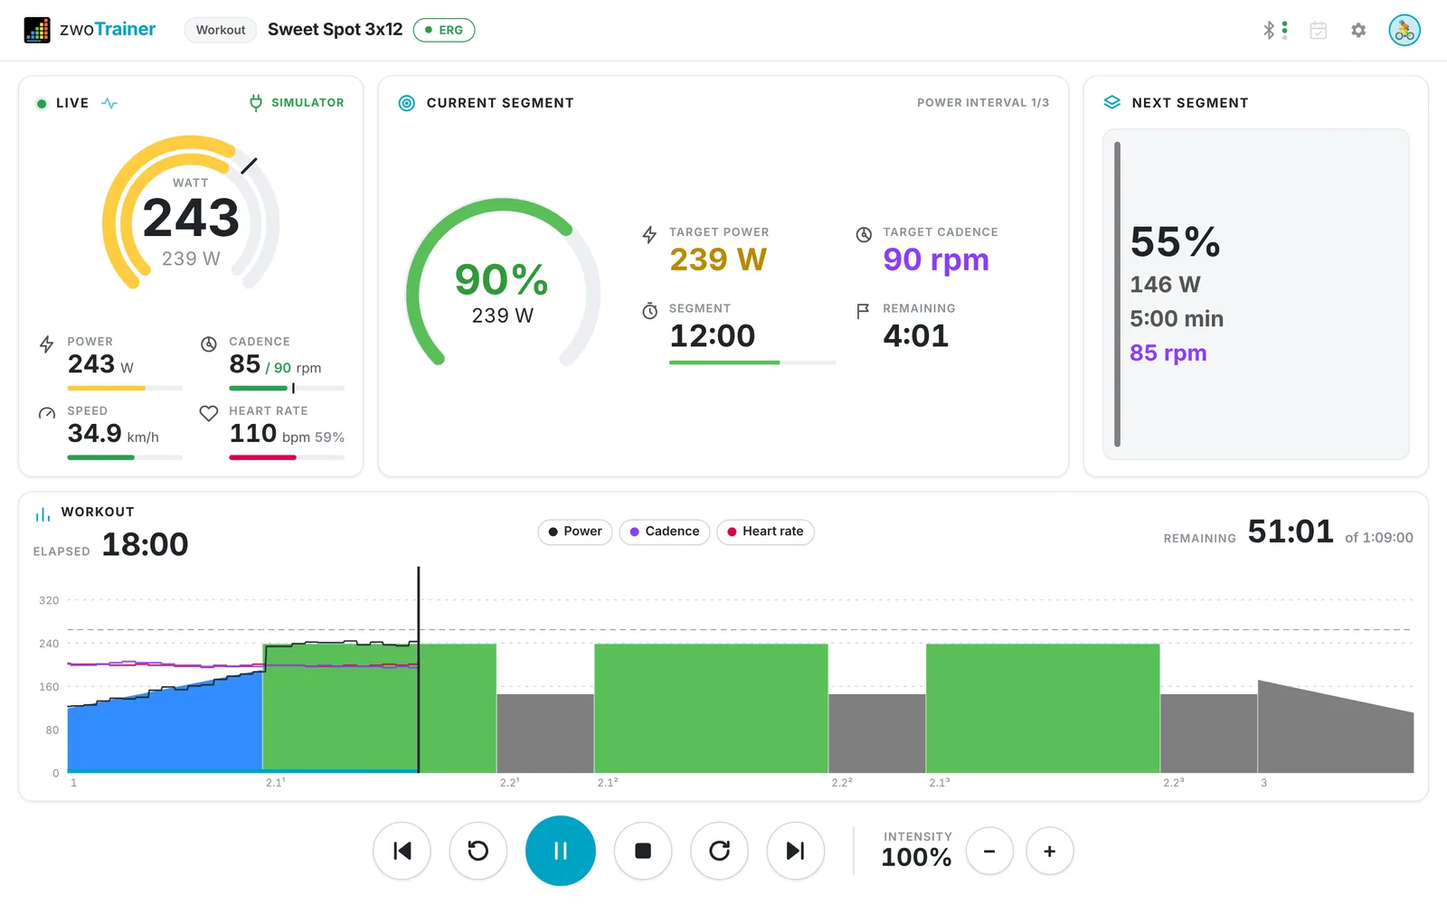
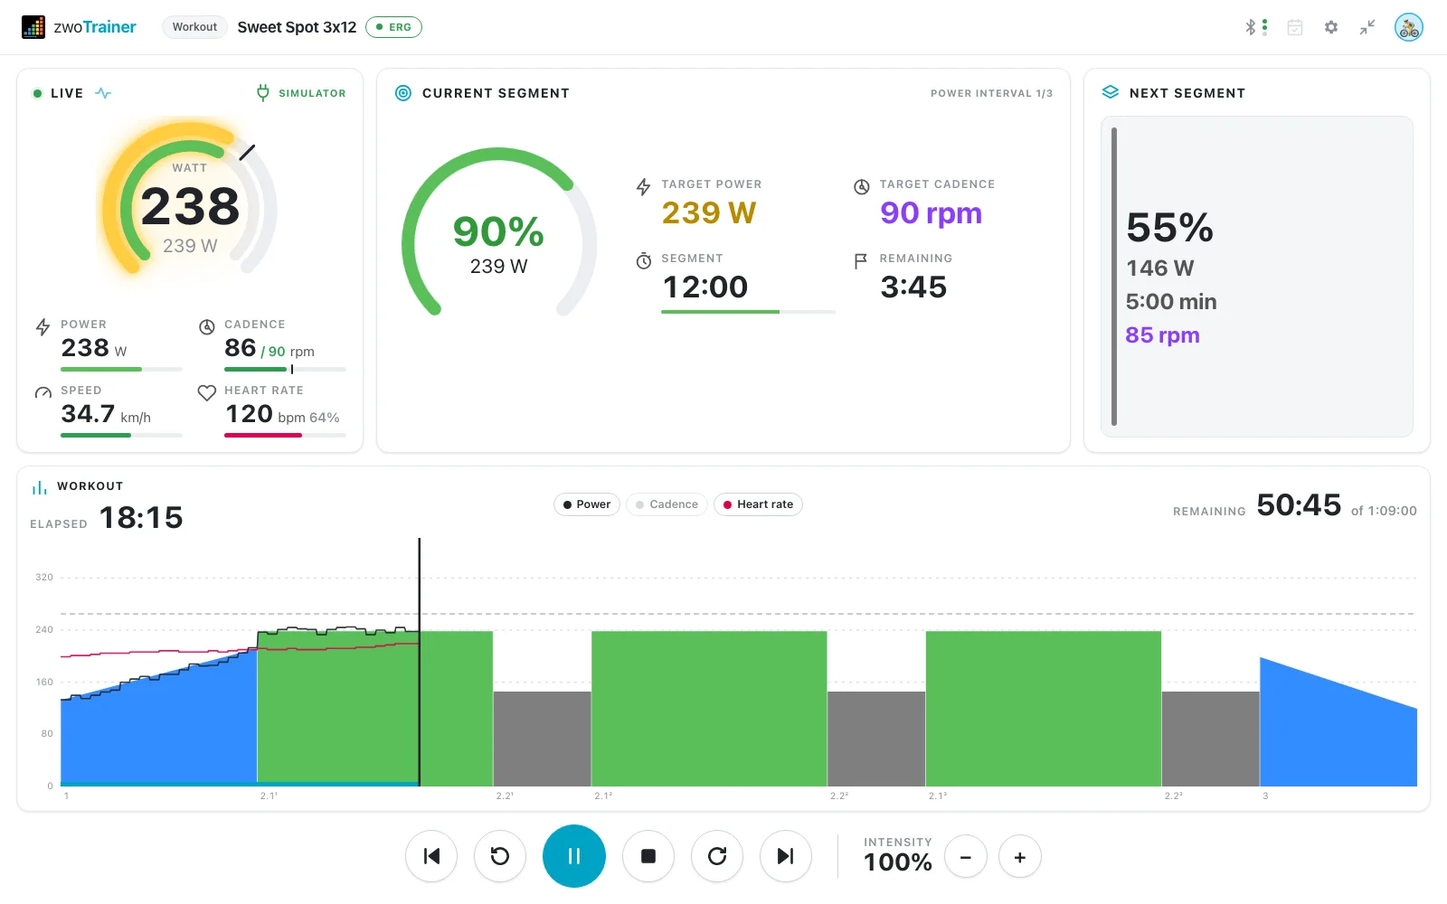
Update the website with compact view, OpenBikeControl, sounds and device battery
Add a Compact view section and a Devices section to the features page, new
compact view screenshots and refreshed ride and devices screenshots in dark
and light, OpenBikeControl and sound texts on the home and features pages,
and controller and video entries to the download FAQ.

diff --git a/site/features.html b/site/features.html
@@ -1,5 +1,5 @@
 <!doctype html>
-<html lang="en"><head><meta charset="utf-8"><meta name="viewport" content="width=device-width, initial-scale=1, viewport-fit=cover"><meta name="claude:viewport-fit-sides" content="cover"><title>zwoTrainer Features</title><meta name="description" content="Ride screen, plans, workout library, FTP tests, virtual shifting, riders and uploads in zwoTrainer."><link rel="icon" href="icon.svg" type="image/svg+xml"><link rel="preconnect" href="https://fonts.googleapis.com"><link rel="preconnect" href="https://fonts.gstatic.com" crossorigin><link href="https://fonts.googleapis.com/css2?family=Archivo:wdth,wght@62..125,300..900&family=JetBrains+Mono:wght@400;500;600&display=swap" rel="stylesheet"><link rel="stylesheet" href="site.css"><script src="site.js"></script></head>
+<html lang="en"><head><meta charset="utf-8"><meta name="viewport" content="width=device-width, initial-scale=1, viewport-fit=cover"><meta name="claude:viewport-fit-sides" content="cover"><title>zwoTrainer Features</title><meta name="description" content="Ride screen, compact view, plans, workout library, FTP tests, virtual shifting, devices, riders and uploads in zwoTrainer."><link rel="icon" href="icon.svg" type="image/svg+xml"><link rel="preconnect" href="https://fonts.googleapis.com"><link rel="preconnect" href="https://fonts.gstatic.com" crossorigin><link href="https://fonts.googleapis.com/css2?family=Archivo:wdth,wght@62..125,300..900&family=JetBrains+Mono:wght@400;500;600&display=swap" rel="stylesheet"><link rel="stylesheet" href="site.css"><script src="site.js"></script></head>
 <body>
 <header class="nav"><div class="wrap">
   <a class="brand" href="./"><img src="icon.svg" alt=""><span>zwo<b>Trainer</b></span></a>
@@ -13,13 +13,18 @@
 <section class="page-hero"><div class="wrap">
   <span class="eyebrow"><span class="zones" aria-hidden="true"><i></i><i></i><i></i><i></i><i></i></span> Features</span>
   <h1 class="display">What zwoTrainer&nbsp;does.</h1>
-  <p class="lead">The ride screen, plans, workout library, FTP tests, virtual shifting, riders and uploads in detail.</p>
-  <nav class="toc"><a href="#ride">Ride screen</a><a href="#plans">Plans</a><a href="#library">Workouts</a><a href="#ftp">FTP tests</a><a href="#shifting">Virtual shifting</a><a href="#riders">Riders &amp; sync</a><a href="#uploads">Uploads</a></nav>
+  <p class="lead">The ride screen, compact view, plans, workout library, FTP tests, virtual shifting, devices, riders and uploads in detail.</p>
+  <nav class="toc"><a href="#ride">Ride screen</a><a href="#compact">Compact view</a><a href="#plans">Plans</a><a href="#library">Workouts</a><a href="#ftp">FTP tests</a><a href="#shifting">Virtual shifting</a><a href="#devices">Devices</a><a href="#riders">Riders &amp; sync</a><a href="#uploads">Uploads</a></nav>
 </div></section>
 
 <section class="deep" id="ride"><div class="wrap grid">
   <div class="side rv"><span class="eyebrow">Ride screen</span><h2 class="display">ERG, second by second.</h2><p>ERG updates the target every second, ramps included. In free-ride and all-out segments ERG turns off and you ride on your gears.</p><table class="keys"><tr><td><kbd>Space</kbd></td><td class="muted">start / pause</td></tr><tr><td><kbd>←</kbd> <kbd>→</kbd></td><td class="muted">previous / next segment</td></tr><tr><td><kbd>↑</kbd> <kbd>↓</kbd></td><td class="muted">intensity ±1 % (with Shift ±10 %)</td></tr><tr><td><kbd>+</kbd> <kbd>−</kbd></td><td class="muted">shift virtual gear</td></tr><tr><td><kbd>Esc</kbd></td><td class="muted">end the workout</td></tr></table></div>
-  <div class="rv"><div class="frame"><div class="bar"><i></i><i></i><i></i></div><img class="sd" src="img/ride-dark.webp" alt="Ride screen with live data and workout chart" width="1600" height="1000" loading="lazy"><img class="sl" src="img/ride-light.webp" alt="Ride screen with live data and workout chart" width="1600" height="1000" loading="lazy"></div><div class="cards"><div class="card"><h4>Start</h4><p>The workout starts after about two seconds of pedalling, or when you press Space.</p></div><div class="card"><h4>Cadence targets</h4><p>If a segment has a cadence target, it appears next to your cadence. The bar is green on target, amber 5–10 rpm off and red beyond that.</p></div><div class="card"><h4>Auto-pause</h4><p>After three seconds without power or cadence the workout pauses, and it resumes when you pedal again. You can turn this off.</p></div><div class="card"><h4>Countdown beeps</h4><p>Three beeps in the last three seconds before each change of target.</p></div></div></div>
+  <div class="rv"><div class="frame"><div class="bar"><i></i><i></i><i></i></div><img class="sd" src="img/ride-dark.webp" alt="Ride screen with live data and workout chart" width="1600" height="1000" loading="lazy"><img class="sl" src="img/ride-light.webp" alt="Ride screen with live data and workout chart" width="1600" height="1000" loading="lazy"></div><div class="cards"><div class="card"><h4>Start</h4><p>The workout starts after about two seconds of pedalling, or when you press Space.</p></div><div class="card"><h4>Cadence targets</h4><p>If a segment has a cadence target, it appears next to your cadence. The bar is green on target, amber 5–10 rpm off and red beyond that.</p></div><div class="card"><h4>Auto-pause</h4><p>After three seconds without power or cadence the workout pauses, and it resumes when you pedal again. You can turn this off.</p></div><div class="card"><h4>Sounds</h4><p>A countdown in the last three seconds before each change of target: three rising notes when the power goes up, three falling notes when it goes down. A short chime plays when you ride a workout to the end.</p></div></div></div>
+</div></section>
+
+<section class="deep" id="compact"><div class="wrap grid">
+  <div class="side rv"><span class="eyebrow">Compact view</span><h2 class="display">Train next to a video.</h2><p>Shrink the ride screen into a small window and keep it beside or above YouTube or any other video player. The same Ride keeps running, with the same ERG control, recording and sounds.</p></div>
+  <div class="rv"><div class="frame"><div class="bar"><i></i><i></i><i></i></div><img class="sd" src="img/compact-dark.webp" alt="Compact view: Live gauge, Current segment ring and Next segment in a 960 by 200 window" width="1920" height="400" loading="lazy"><img class="sl" src="img/compact-light.webp" alt="Compact view: Live gauge, Current segment ring and Next segment in a 960 by 200 window" width="1920" height="400" loading="lazy"></div><div class="cards"><div class="card"><h4>Three panels</h4><p>Live shows the power gauge with target, heart rate and cadence. Current shows the segment ring with time left, target and progress. Next shows the target, its length and when it starts.</p></div><div class="card"><h4>Any size</h4><p>It opens as a 960 × 200 bar and shrinks down to 320 × 200, or into a narrow vertical panel. The smaller the window, the less text it shows. The gauges and the ring always stay.</p></div><div class="card"><h4>One click</h4><p>Use the compact view icon in the top bar during a ride. The expand button brings back the previous window size and position.</p></div><div class="card"><h4>Still in control</h4><p>Play and pause, stop and virtual gears stay within reach, and keyboard and controller shortcuts keep working.</p></div></div></div>
 </div></section>
 
 <section class="deep" id="plans"><div class="wrap grid">
@@ -39,7 +44,12 @@
 
 <section class="deep" id="shifting"><div class="wrap grid">
   <div class="side rv"><span class="eyebrow">Virtual shifting</span><h2 class="display">Gears in free-ride segments.</h2><p>zwoTrainer simulates 24 gears. Cadence and gear ratio give a speed, and road physics with your weight turns that speed into the watts the trainer holds. Virtual gears are used in free-ride segments and all-out efforts.</p></div>
-  <div class="rv"><div class="frame"><div class="bar"><i></i><i></i><i></i></div><img class="sd" src="img/test-20min-vs-dark.webp" alt="All-out effort on virtual gears: gear 20 of 24 with ratio and resulting watts, shift buttons on screen" width="1600" height="1000" loading="lazy"><img class="sl" src="img/test-20min-vs-light.webp" alt="All-out effort on virtual gears: gear 20 of 24 with ratio and resulting watts, shift buttons on screen" width="1600" height="1000" loading="lazy"></div><div class="cards"><div class="card"><h4>Zwift controllers</h4><p>Zwift Ride, Click and Play shift gears and change intensity. Ride and Play can also skip segments and start or pause the workout.</p></div><div class="card"><h4>Without a controller</h4><p>Shift with <kbd>+</kbd> / <kbd>−</kbd> or the buttons on screen.</p></div><div class="card"><h4>Choice per ride</h4><p>If a workout has free-ride segments, the Ready screen lets you choose real gears or virtual gears (easy, medium or hard). The default is set in Settings.</p></div><div class="card"><h4>Button test</h4><p>The shifter dialog shows every button press and the action it triggers.</p></div></div></div>
+  <div class="rv"><div class="frame"><div class="bar"><i></i><i></i><i></i></div><img class="sd" src="img/test-20min-vs-dark.webp" alt="All-out effort on virtual gears: gear 20 of 24 with ratio and resulting watts, shift buttons on screen" width="1600" height="1000" loading="lazy"><img class="sl" src="img/test-20min-vs-light.webp" alt="All-out effort on virtual gears: gear 20 of 24 with ratio and resulting watts, shift buttons on screen" width="1600" height="1000" loading="lazy"></div><div class="cards"><div class="card"><h4>Zwift controllers</h4><p>Zwift Ride, Click and Play shift gears and change intensity. Ride and Play can also skip segments and start or pause the workout.</p></div><div class="card"><h4>OpenBikeControl</h4><p>Controllers that use the open OpenBikeControl protocol work too, and so do apps like BikeControl that bridge other controllers. Shift, change intensity, skip segments and start or pause from the buttons.</p></div><div class="card"><h4>Without a controller</h4><p>Shift with <kbd>+</kbd> / <kbd>−</kbd> or the buttons on screen.</p></div><div class="card"><h4>Choice per ride</h4><p>If a workout has free-ride segments, the Ready screen lets you choose real gears or virtual gears (easy, medium or hard). The default is set in Settings.</p></div><div class="card"><h4>Button test</h4><p>The shifter dialog shows every button press and the action it triggers.</p></div></div></div>
+</div></section>
+
+<section class="deep" id="devices"><div class="wrap grid">
+  <div class="side rv"><span class="eyebrow">Devices</span><h2 class="display">Pair once.</h2><p>Trainer, heart-rate strap and controller are remembered for each rider. Open the Bluetooth menu in the top bar to see what is connected and to connect or change a device.</p></div>
+  <div class="rv"><div style="max-width:420px"><div class="dialog-shot"><img class="sd" src="img/devices-card-dark.webp" alt="Devices menu with a smart trainer, a heart-rate strap at 82 % battery and a Zwift Ride controller at 24 % battery" width="600" height="408" loading="lazy"><img class="sl" src="img/devices-card-light.webp" alt="Devices menu with a smart trainer, a heart-rate strap at 82 % battery and a Zwift Ride controller at 24 % battery" width="600" height="408" loading="lazy"></div></div><div class="cards"><div class="card"><h4>Automatic connection</h4><p>Saved devices connect when the app starts and reconnect by themselves after a dropout. A controller you switch off no longer shows as connected.</p></div><div class="card"><h4>Battery level</h4><p>Devices that report their battery, like most heart-rate straps and controllers and a few trainers, show it in the menu: green from 40 %, amber from 16 %, red at 15 % or less. Other devices show nothing.</p></div><div class="card"><h4>Status at a glance</h4><p>Three small dots next to the Bluetooth icon show trainer, heart rate and controller: green is connected, amber is connecting, grey is off.</p></div><div class="card"><h4>One app at a time</h4><p>Most trainers and controllers accept only one Bluetooth connection, so close Zwift and other training apps first.</p></div></div></div>
 </div></section>
 
 <section class="deep" id="riders"><div class="wrap grid">

diff --git a/site/download.html b/site/download.html
@@ -37,14 +37,14 @@
     <li style="--c:var(--z2)"><h4>Install and open</h4><p>Allow the unsigned app once and grant Bluetooth access.</p></li>
     <li style="--c:var(--z3)"><h4>Choose your folder</h4><p>Select the folder that contains your <code>.zwo</code> workouts and plans.</p></li>
     <li style="--c:var(--z4)"><h4>Set up your rider</h4><p>Enter name, FTP and weight, or ride an FTP test first.</p></li>
-    <li style="--c:var(--z5)"><h4>Pair and ride</h4><p>Connect trainer, heart-rate strap and controller from the Bluetooth menu, then start a workout.</p></li>
+    <li style="--c:var(--z5)"><h4>Pair and ride</h4><p>Connect trainer, heart-rate strap and controller from the Bluetooth menu, then start a workout. Saved devices connect by themselves next time.</p></li>
   </ol>
-  <div class="gs-shots rv"><div class="dialog-shot"><img class="sd" src="img/devices-card-dark.webp" alt="Devices menu with smart trainer, heart rate and shifter" width="598" height="403" loading="lazy"><img class="sl" src="img/devices-card-light.webp" alt="Devices menu with smart trainer, heart rate and shifter" width="598" height="403" loading="lazy"></div><div class="frame"><div class="bar"><i></i><i></i><i></i></div><img class="sd" src="img/home-dark.webp" alt="Home screen with the active plan and the next workout ready to start" width="1600" height="1000" loading="lazy"><img class="sl" src="img/home-light.webp" alt="Home screen with the active plan and the next workout ready to start" width="1600" height="1000" loading="lazy"></div></div>
+  <div class="gs-shots rv"><div class="dialog-shot"><img class="sd" src="img/devices-card-dark.webp" alt="Devices menu with smart trainer, heart rate and shifter, including battery levels" width="600" height="408" loading="lazy"><img class="sl" src="img/devices-card-light.webp" alt="Devices menu with smart trainer, heart rate and shifter, including battery levels" width="600" height="408" loading="lazy"></div><div class="frame"><div class="bar"><i></i><i></i><i></i></div><img class="sd" src="img/home-dark.webp" alt="Home screen with the active plan and the next workout ready to start" width="1600" height="1000" loading="lazy"><img class="sl" src="img/home-light.webp" alt="Home screen with the active plan and the next workout ready to start" width="1600" height="1000" loading="lazy"></div></div>
 </div></section>
 
 <section class="block"><div class="wrap" style="max-width:860px">
   <div class="head rv"><span class="eyebrow">FAQ</span><h2 class="display">Common questions.</h2></div>
-  <div class="rv"><details class="faq"><summary>Is zwoTrainer free?</summary><p>Yes. There is no subscription, no account and no ads. The source code is on GitHub.</p></details><details class="faq"><summary>Where do I get workouts?</summary><p>Any Zwift <code>.zwo</code> file works: exported from Zwift, downloaded from a workout site or written by a coach. To use workouts as a plan, put them in a folder and sort them by week and day.</p></details><details class="faq"><summary>Why does my system warn me when I open it?</summary><p>The installers aren't signed with a paid developer certificate. On macOS, right-click the app and choose Open, or use System Settings → Privacy &amp; Security → Open Anyway. On Windows, choose More info → Run anyway.</p></details><details class="faq"><summary>Which trainers work?</summary><p>Any Bluetooth smart trainer with FTMS, for example Wahoo KICKR and KICKR Core, Zwift Hub, Tacx, Elite, Saris and JetBlack. Bluetooth power meters and heart-rate straps work too.</p></details><details class="faq"><summary>Can I run it at the same time as Zwift?</summary><p>No. Most trainers and controllers accept only one Bluetooth connection, so close Zwift and other training apps first.</p></details><details class="faq"><summary>Do my rides reach Strava?</summary><p>Yes, through Garmin Connect. Link Strava to your Garmin account once, and every uploaded ride is forwarded under the workout's name. The ride description doesn't reach Strava.</p></details><details class="faq"><summary>Does my Garmin password go through the app?</summary><p>No. You sign in on Garmin's own page, and zwoTrainer stores only the resulting session token, per rider, on your computer.</p></details></div>
+  <div class="rv"><details class="faq"><summary>Is zwoTrainer free?</summary><p>Yes. There is no subscription, no account and no ads. The source code is on GitHub.</p></details><details class="faq"><summary>Where do I get workouts?</summary><p>Any Zwift <code>.zwo</code> file works: exported from Zwift, downloaded from a workout site or written by a coach. To use workouts as a plan, put them in a folder and sort them by week and day.</p></details><details class="faq"><summary>Why does my system warn me when I open it?</summary><p>The installers aren't signed with a paid developer certificate. On macOS, right-click the app and choose Open, or use System Settings → Privacy &amp; Security → Open Anyway. On Windows, choose More info → Run anyway.</p></details><details class="faq"><summary>Which trainers work?</summary><p>Any Bluetooth smart trainer with FTMS, for example Wahoo KICKR and KICKR Core, Zwift Hub, Tacx, Elite, Saris and JetBlack. Bluetooth power meters and heart-rate straps work too.</p></details><details class="faq"><summary>Which controllers work?</summary><p>Zwift Ride, Zwift Click (v1 and v2) and Zwift Play, plus OpenBikeControl controllers and apps like BikeControl that bridge other controllers. They shift virtual gears, change intensity and skip segments.</p></details><details class="faq"><summary>Can I watch a video while I train?</summary><p>Yes. The compact view shrinks the ride screen into a small window that you can place beside or above any video player. There is no built-in video.</p></details><details class="faq"><summary>Can I run it at the same time as Zwift?</summary><p>No. Most trainers and controllers accept only one Bluetooth connection, so close Zwift and other training apps first.</p></details><details class="faq"><summary>Do my rides reach Strava?</summary><p>Yes, through Garmin Connect. Link Strava to your Garmin account once, and every uploaded ride is forwarded under the workout's name. The ride description doesn't reach Strava.</p></details><details class="faq"><summary>Does my Garmin password go through the app?</summary><p>No. You sign in on Garmin's own page, and zwoTrainer stores only the resulting session token, per rider, on your computer.</p></details></div>
   <p class="muted" style="margin-top:36px">To build zwoTrainer yourself, see the <a href="https://github.com/steffenr/zwo-trainer#build-from-source">build instructions</a> in the README.</p>
 </div></section>
 <section class="block" id="support" style="padding-top:0">

diff --git a/site/index.html b/site/index.html
@@ -19,7 +19,7 @@
       <a class="btn primary" href="download.html"><svg viewBox="0 0 24 24" fill="none" stroke="currentColor" stroke-width="2.2" stroke-linecap="round" stroke-linejoin="round"><path d="M12 4v12M7 11l5 5 5-5M5 20h14"/></svg> Download for free</a>
       <a class="btn" href="features.html">All features <svg viewBox="0 0 24 24" fill="none" stroke="currentColor" stroke-width="2.2" stroke-linecap="round" stroke-linejoin="round"><path d="M5 12h14M13 6l6 6-6 6"/></svg></a>
     </div>
-    <p class="note">Bluetooth FTMS trainers · heart-rate straps · Zwift Ride, Click and Play</p>
+    <p class="note">Bluetooth FTMS trainers · heart-rate straps · Zwift Ride, Click and Play · OpenBikeControl</p>
     <div class="hero-shot">
       <div class="steps-bg" data-bars="20,24,28,32,36,40,44,48,52,56,68,68,68,68,30,30,68,68,68,68,30,30,68,68,68,68,30,26,22,18" aria-hidden="true"></div>
       <div class="frame"><div class="bar"><i></i><i></i><i></i></div><img class="sd" src="img/ride-dark.webp" alt="zwoTrainer ride screen during a sweet-spot interval: live power, cadence, speed and heart rate, current and next segment, and the workout chart" width="1600" height="1000"><img class="sl" src="img/ride-light.webp" alt="zwoTrainer ride screen during a sweet-spot interval: live power, cadence, speed and heart rate, current and next segment, and the workout chart" width="1600" height="1000"></div>
@@ -60,10 +60,25 @@
           <li><b>Live:</b> a watt gauge with target and actual power, plus power, cadence against its target, speed and heart rate.</li>
           <li><b>Current and next segment:</b> target in % and watts, target cadence, segment length and the time left.</li>
           <li><b>Workout chart:</b> your power, cadence and heart rate drawn over the planned blocks.</li>
-          <li><b>Intensity:</b> scale all targets by 1 % next to the play button, from the keyboard or a Zwift controller, or by 10 % with Shift.</li>
+          <li><b>Intensity:</b> scale all targets by 1 % next to the play button, from the keyboard or a controller, or by 10 % with Shift.</li>
+          <li><b>Sounds:</b> a countdown before each change of target, with rising notes for more power and falling notes for less, and a chime at the end of the workout.</li>
         </ul>
       </div>
       <div class="rv inv"><div class="frame"><div class="bar"><i></i><i></i><i></i></div><img class="sd" src="img/ride-dark.webp" alt="Ride screen in the middle of an interval" width="1600" height="1000" loading="lazy"><img class="sl" src="img/ride-light.webp" alt="Ride screen in the middle of an interval" width="1600" height="1000" loading="lazy"></div><p class="caption">Light and dark mode follow your system, or pick one in Settings.</p></div>
+    </div>
+
+    <div class="feature flip">
+      <div class="copy rv">
+        <span class="eyebrow">Compact view</span>
+        <h2 class="display">Train next to a&nbsp;video.</h2>
+        <p>One click shrinks the ride screen into a small window that fits beside or above YouTube or any other video player. It shows the same three panels in miniature, and ERG, recording and sounds carry on as before.</p>
+        <ul class="ticks">
+          <li><b>Live, Current and Next:</b> power gauge, segment ring and what comes next, side by side.</li>
+          <li><b>Any size</b> from 960 × 200 down to 320 × 200, or a narrow vertical panel. The smaller it gets, the less text it shows.</li>
+          <li><b>Back to full view</b> restores your window size and position.</li>
+        </ul>
+      </div>
+      <div class="rv"><div class="frame"><div class="bar"><i></i><i></i><i></i></div><img class="sd" src="img/compact-dark.webp" alt="Compact view with the Live gauge, the Current segment ring and the Next segment" width="1920" height="400" loading="lazy"><img class="sl" src="img/compact-light.webp" alt="Compact view with the Live gauge, the Current segment ring and the Next segment" width="1920" height="400" loading="lazy"></div></div>
     </div>
 
     <div class="feature flip">
@@ -115,12 +130,12 @@
     <div class="head rv">
       <span class="eyebrow">Devices</span>
       <h2 class="display">Pair once.</h2>
-      <p class="lead">Devices are remembered per rider and reconnect at launch and after a dropout.</p>
+      <p class="lead">Devices are remembered per rider and reconnect at launch and after a dropout. The Bluetooth menu shows the battery level of devices that report it.</p>
     </div>
     <div class="compat rv">
       <div><div class="ic"><svg viewBox="0 0 24 24" fill="none" stroke="currentColor" stroke-width="2" stroke-linecap="round" stroke-linejoin="round"><circle cx="12" cy="12" r="7"/><circle cx="12" cy="12" r="2"/><path d="M12 5v2M12 17v2M5 12h2M17 12h2"/></svg></div><h3>Smart trainers</h3><p>Any Bluetooth FTMS trainer, such as Wahoo KICKR, Zwift Hub, Tacx, Elite, Saris or JetBlack, in ERG mode or flat-road simulation.</p></div>
       <div><div class="ic"><svg viewBox="0 0 24 24" fill="none" stroke="currentColor" stroke-width="2" stroke-linecap="round" stroke-linejoin="round"><path d="M20.8 4.6a5.5 5.5 0 0 0-7.8 0L12 5.7l-1-1.1a5.5 5.5 0 0 0-7.8 7.8l1 1L12 21l7.8-7.6 1-1a5.5 5.5 0 0 0 0-7.8z"/><path d="M3 12h4l2-3 3 6 2-3h7"/></svg></div><h3>Power and heart rate</h3><p>Bluetooth power meters (power only, no ERG) and any strap or watch that broadcasts heart rate.</p></div>
-      <div><div class="ic"><svg viewBox="0 0 24 24" fill="none" stroke="currentColor" stroke-width="2" stroke-linecap="round" stroke-linejoin="round"><rect x="6" y="3" width="12" height="18" rx="6"/><path d="M12 7v4M10 9h4M10 16h4"/></svg></div><h3>Virtual shifting</h3><p>24 virtual gears with road physics, shifted from a Zwift Ride, Click or Play controller, the keyboard or on-screen buttons.</p></div>
+      <div><div class="ic"><svg viewBox="0 0 24 24" fill="none" stroke="currentColor" stroke-width="2" stroke-linecap="round" stroke-linejoin="round"><rect x="6" y="3" width="12" height="18" rx="6"/><path d="M12 7v4M10 9h4M10 16h4"/></svg></div><h3>Virtual shifting</h3><p>24 virtual gears with road physics, shifted from a Zwift Ride, Click or Play controller, an OpenBikeControl controller, the keyboard or on-screen buttons.</p></div>
       <div><div class="ic"><svg viewBox="0 0 24 24" fill="none" stroke="currentColor" stroke-width="2" stroke-linecap="round" stroke-linejoin="round"><path d="M12 16V4M7 9l5-5 5 5"/><path d="M4 16v3a2 2 0 0 0 2 2h12a2 2 0 0 0 2-2v-3"/></svg></div><h3>Uploads</h3><p>Garmin Connect (and Strava through it), Intervals.icu and COROS. A plain FIT file for anything else.</p></div>
     </div>
     <div class="rv" style="margin-top:56px">
